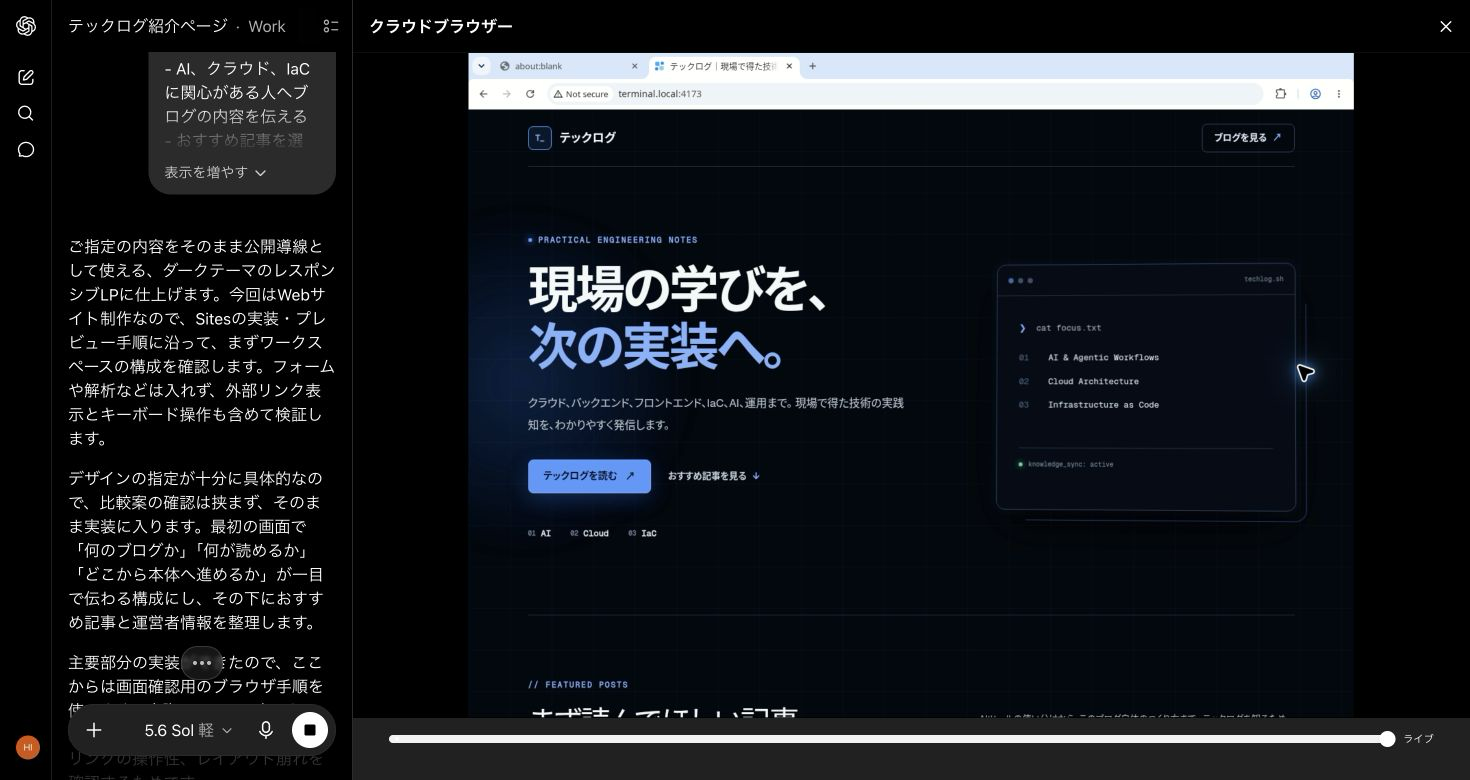
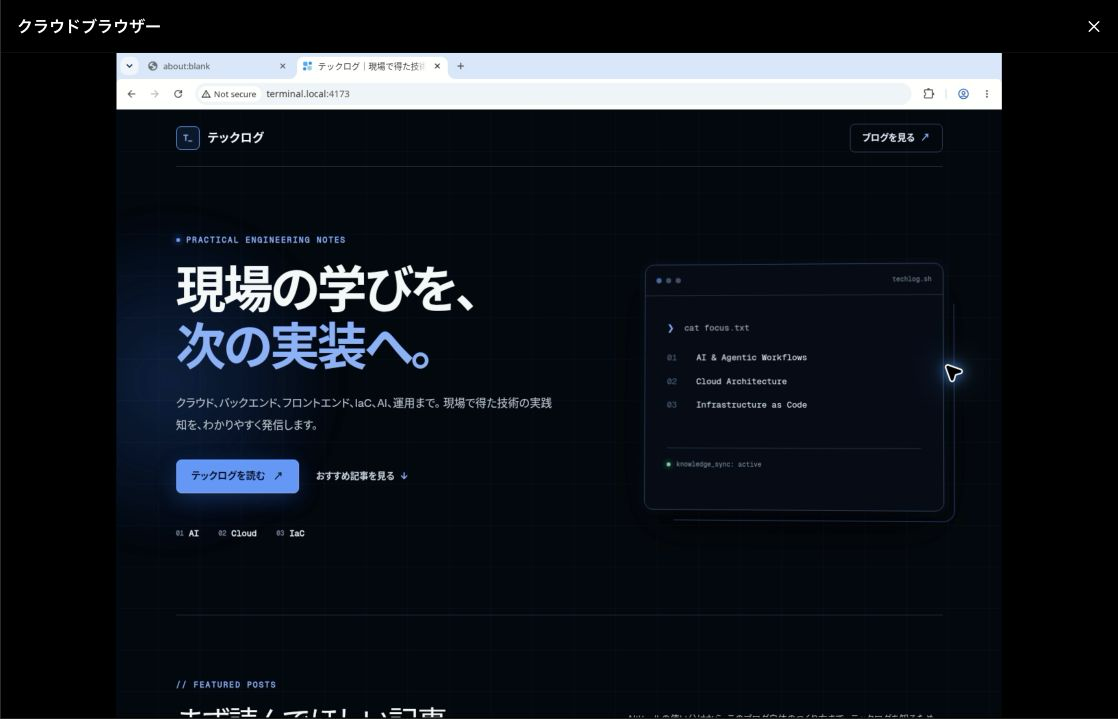
fix: focus historical Sites screenshots

diff --git a/docs/superpowers/plans/2026-07-14-chatgpt-sites-article.md b/docs/superpowers/plans/2026-07-14-chatgpt-sites-article.md
@@ -186,6 +186,8 @@ Open all five images with `view_image` at original detail.
 
 Expected: each screenshot shows the intended decision point, contains no email address, account identity, conversation history, non-public Workspace, secret, or share token, and remains readable at article width. Recapture unsafe images; do not blur or fabricate UI.
 
+Post-capture cropping is normally prohibited. Narrow exception: on 2026-07-14, the user explicitly approved non-generative Sharp `extract`-only crops of `chatgpt-sites-start.png` and `chatgpt-sites-initial.png` because those historical UI states were no longer available for direct recapture. This exception does not permit resizing, resampling, rotation, color changes, blur, compositing, regeneration, text alteration, or cropping any other screenshot.
+
 - [ ] **Step 8: Commit the safe screenshots**
 
 ```bash
